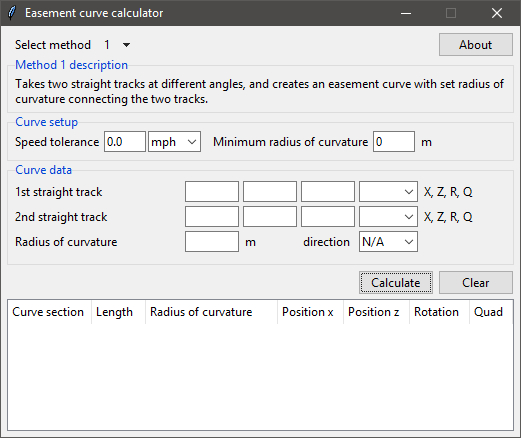
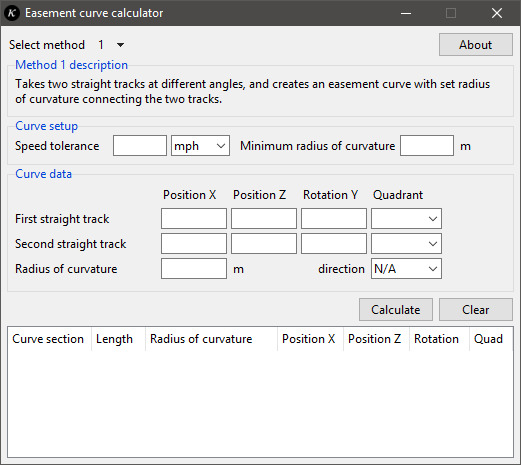
Updated docs

diff --git a/docs/guide.md b/docs/guide.md
@@ -1,31 +1,33 @@
 # Easement curve guide
 
-- Introduction
-- Joining two straight tracks with a specific radius of curvature
-- Extending a track to join another straight track
-- Other ways of implementing the curve data
+- [Introduction][1]
+- [Joining two straight tracks][2]
+- [Extending a track to join another][3]
+- [Other ways of using the curve data][4]
 
 ## Introduction
+[1]: #introduction
 
 Starting up the GUI gives you this:
 
 ![GUI](images/gui.jpg)
 
 - There are two methods of calculating easement curves - you can select them with the `Select method` menu. Below is a short description of what each method does.
-- Then there is the speed tolerance and minimum radius. The speed tolerance,which can either be in mph or km/h, determines how long the easement curves are. The minimum radius of curvature sets an upper limit on the curvature.
+- Then there is the speed tolerance and minimum radius. The speed tolerance, which can either be in mph or km/h, determines how long the easement curves are. The minimum radius of curvature sets an upper limit on the curvature.
 - The Curve data section is where you enter the data needed to recreate the tracks and curves.
 - The `Clear` button clears away all the fields in the 'Curve data' section. The `Calculate` button does what it says on the tin.
 - At the bottom is the table which gives you the curve coordinates you need to recreate the curve in Train Simulator.
 
-Let's get started with some examples of joining up tracks with easement curves.
+Let us get started with some examples of joining up tracks with easement curves.
 
-## Joining two straight tracks with a specific radius of curvature
+## Joining two straight tracks
+[2]: #joining-two-straight-tracks
 
-Suppose we have two straight tracks, and we want to create a section with easement curves of radius of curvature 3,200 m to join them. The track rule we're using has a speed tolerance of 120 mph and minimum radius of curvature 1,000 m.
+Suppose we have two straight tracks, and we want to create a section with easement curves of radius of curvature 3,200 m to join them. The track rule we are using has a speed tolerance of 120 mph and minimum radius of curvature 1,000 m.
 
 ![Two straight tracks](images/ig01.jpg)
 
-1. As we need a specific radius of curvature, we select method 1. We double click on the first track - it doesn't matter where exactly, as it is the straight line which is used for the calculations. The coordinates rolls out.
+1. As we need a specific radius of curvature, we select method 1. We double click on the first track - it doesn not matter where exactly, as it is the straight line which is used for the calculations. The coordinates rolls out.
 
    ![Clicking on track](images/ig02_1.jpg)
 
@@ -35,33 +37,33 @@ Suppose we have two straight tracks, and we want to create a section with easeme
 
    ![First set of coordinates](images/gui01.jpg)
 
-   > :information_source: In TS2016 the *x* and *z* axes are the horizontal, while the *y* axis is the vertical axis. This is in contrast to the standard Cartesian coordinates where *x* and *y* are the horizontal axes.
+   > :information_source: In TS2016 the *x* and *z* axes are the horizontal axes, while the *y* axis is the vertical axis. This is in contrast to the standard Cartesian coordinates where *x* and *y* are the horizontal axes.
 
-3. We also need the quadrant. Move the camera down to the track and look down the track in the direction you want to build the curve in. The compass says it's about 75 degrees between N and E, therefore the quadrant is `NE`. We enter that in.
+3. We also need the quadrant. Move the camera down to the track and look down the track in the direction you want to build the curve in. The compass says it is about 75 degrees between N and E, therefore the quadrant is `NE`. We enter that in.
 
    ![Looking down track](images/ig03.jpg)
 
    > :information_source: The *y*-axis rotation value is in the [-90, 90] range only, which is half that needed for the full 360 degrees range. Including the quadrant solves this problem. See the [reference](reference.md) for more on this.
 
-   > :warning: Take care with tracks aligned towards W (*y*-axis rotation -90) or E (*y*-axis rotation 90), as the rotation values are very similar on either side of the axis.
+   > :warning: Take care with tracks aligned towards W (*y*-axis rotation -90) or E (*y*-axis rotation 90), as the rotation values can be the same on either side of the axis.
 
-4. We do the same thing for the second track - again, it doesn't matter where exactly on the track. The coordinates are `(681.732, 700.001)` and the rotation is `69.511 NE`.
+4. We do the same thing for the second track - again, it does not matter where exactly on the track. The coordinates are `(681.732, 700.001)` and the rotation is `69.511 NE`.
 
    ![Second track](images/ig04.jpg)
 
    ![Second set of coordinates](images/gui02.jpg)
 
-5. Finally, we enter the radius of curvature `3200` m. The direction can be left as `N/A`, as we're only interested in the shortest curve. Clicking `Calculate` gives us the results.
+5. Finally, we enter the radius of curvature `3200` m. The direction can be left as `N/A`, as we are only interested in the shortest curve. Clicking `Calculate` gives us the results.
 
    ![Results](images/gui03.jpg)
 
-   > :information_source: Picking CW or ACW will force the curve to be aligned in that direction, even if it's a much longer curve and crosses itself. By leaving it at N/A by default the curve will be aligned in the shortest direction.
+   > :information_source: Picking CW or ACW will force the curve to be aligned in that direction, even if it is a much longer curve and crosses itself. By leaving it at N/A by default the curve will be aligned in the shortest direction.
 
 6. We need to recreate the curve in Train Simulator. The start point is at `(508.235, 644.051)`, so we find that point on the first track by double clicking it until the coordinates rollout gives us the correct values.
 
    ![Coordinate found](images/ig05.jpg)
 
-7. Looking straight down at the gizmo, we use the cut tool exactly where the gizmo's centre is. The extranenous section is deleted.
+7. Looking straight down at the gizmo, we use the cut tool exactly where the gizmo's centre is. The extraneous section is deleted.
 
    ![Cutting track](images/ig06.jpg)
 
@@ -69,7 +71,7 @@ Suppose we have two straight tracks, and we want to create a section with easeme
 
    ![New easement curve](images/ig07.jpg)
 
-9. We create a curve of constant radius of curvature, ie a static curve, and making sure it is longer than needed so we can cut it in the right place.
+9. We create a curve of constant radius of curvature, that is, a static curve, and making sure it is longer than needed so we can cut it in the right place.
 
    ![Extending curve](images/ig08.jpg)
 
@@ -85,7 +87,8 @@ Suppose we have two straight tracks, and we want to create a section with easeme
 
     Assuming the coordinates are correct, it should weld without any problems!
 
-## Extending a track to join another straight track
+## Extending a track to join another
+[3]: #extending-a-straight-track
 
 The second method calculates easement curves starting at a specific point and extended to join a straight track. The starting track can either be straight or curved, as long as it is in the same direction as the ending track. As the radius of curvature shown by Train Simulator for a track is only accurate to 1 decimal place, the tool uses an additional pair of coordinates to acquire a more accurate radius of curvature for the starting track. If the starting track is straight, the additional pair of coordinates can be left blank.
 
@@ -97,15 +100,15 @@ Suppose we want to extend an curved track to join with a straight track with eas
 
    ![Starting point](images/ig22.jpg)
 
-2. For the second set of coordinates, we double click on another point on the curved track that's not too close, and enter the coordinates `(521.558, 802.368)`. The rotation/quad values are not needed here.
+2. For the second set of coordinates, we double click on another point on the curved track that is not too close, and enter the coordinates `(521.558, 802.368)`. The rotation/quad values are not needed here.
 
    ![Second point](images/ig23.jpg)
 
-   > :information_source: It doesn't matter where the second pair of coordinates is, just as long as it's on the same track section with the same radius of curvature. If you're starting on a easement curve you can extend a static curve with the easement tool and pick a pair of coordinates before deleting the curve - it will work either side of the starting point.
+   > :information_source: It does not matter where the second pair of coordinates is, just as long as it is on the same track section with the same radius of curvature. If you are starting on a easement curve you can extend a static curve with the easement tool and pick a pair of coordinates before deleting the curve - it will work either side of the starting point.
 
    ![Coordinates inputted](images/gui11.jpg)
 
-3. Finally, we enter the coordinates of the straight track - it doesn't matter where exactly on the track. The coordinates are `(465.935, 775.315)` and `69.148 SW`.
+3. Finally, we enter the coordinates of the straight track - it does not matter where exactly on the track. The coordinates are `(465.935, 775.315)` and `69.148 SW`.
 
    ![Straight track](images/ig24.jpg)
 
@@ -113,7 +116,7 @@ Suppose we want to extend an curved track to join with a straight track with eas
 
    ![Results](images/gui12.jpg)
 
-5. Since we've already defined a start point, we can start with extending the easement curve to radius of curvature `844.4` m.
+5. Since we have already defined a start point, we can start with extending the easement curve to radius of curvature `844.4` m.
 
    ![Extending easement track](images/ig25.jpg)
 
@@ -122,7 +125,10 @@ Suppose we want to extend an curved track to join with a straight track with eas
    ![Finished](images/ig26.jpg)
 
 ## Other ways of implementing the curve data
+[4]: #other-ways-of-implementing-the-curve-data
 
-The above instructions show one way to recreate the curve in Train Simulator, but it may not always work because Train Simulator will only show radius of curvature and length of tracks with one decimal place - any hidden errors when laying down the track can easily blow up and make the curve unable to join the second track.
+The above instructions show one way to recreate the curve in Train Simulator, but it may not always work because Train Simulator will only show radius of curvature and length for tracks with one decimal place - any hidden errors when laying down the track can easily blow up and make the curve unable to join the second track.
+
+It is for that reason the results are laid out in a table with all the data required rather than a list of instructions.
 
 Another way of laying down the track would be to look at the coordinates for the start and the end of the static curve, and lay down two straight tracks whose ends match up with those coordinates. Then, with Train Simulator's joining tool, the static curve is formed by joining those tracks without easements. The straight tracks are deleted and new easement curves created in place, both of which should join up with the starting and ending tracks without problems.

diff --git a/docs/reference.md b/docs/reference.md
@@ -14,10 +14,10 @@ You can also make grids visible by selecting this option on the left rollout:
 
 ![Grid options](images/ig31.jpg)
 
-When dealing with tracks that are far apart, you will need to bear in mind that the tracks can be positioned relative to different tiles, even if they are not inside those grid tiles. For instance, if you know that one track is inside a tile adjacent to one south where a second track is, and their coordinates don't match up with the distances shown, you would need to add 1,024 to the *z*-axis coordinate for the first track.
+When dealing with tracks that are far apart, you will need to bear in mind that the tracks can be positioned relative to different tiles, even if they are not inside those grid tiles. For instance, if you know that one track is inside a tile adjacent to one south where a second track is, and their coordinates do not match up with the distances shown, you would need to add 1,024 to the *z*-axis coordinate for the first track.
 
 ### Rotation values
-Tracks are aligned according to their rotation values in the vertical *y*-axis. However, there are two issues with *y*-axis rotation values. Firstly, the values shown on the rollout dialog is always within the -90 to 90 range, which is half that required for a full range of 360 degrees. Secondly, the rotation value is relative to the direction the track was laid in, which isn't always the same as the direction you want to lay new track in. As a result, an extra coordinate is needed: the bearing quadrants `NE`, `SE`, `SW` and `NW`.
+Tracks are aligned according to their rotation values in the vertical *y*-axis. However, there are two issues with *y*-axis rotation values. Firstly, the values shown on the rollout dialog is always within the -90 to 90 range, which is half that required for a full range of 360 degrees. Secondly, the rotation value is relative to the direction the track was laid in, which is not always the same as the direction you want to lay new track in. As a result, an extra coordinate is needed: the bearing quadrants `NE`, `SE`, `SW` and `NW`.
 
 | Bearing    | *y*-axis rotation | Quadrant |
 | ---------- | ----------------- | -------- |
@@ -30,9 +30,9 @@ The easiest way to find which quadrant the track is aligned towards is to pin th
 
 ![Compass](images/ig33.jpg)
 
-If the compass shows it's between N and E, or between the bearing values 0 and 90, the quadrant is `NE`. If it's between 90 and 180, it would be `SE`, and so on. With the four quadrants the sign of the *y*-axis rotation does not matter - a value of 90 or -90 will be treated the same.
+If the compass shows it is between N and E, or between the bearing values 0 and 90, the quadrant is `NE`. If it's between 90 and 180, it would be `SE`, and so on. With the four quadrants the sign of the *y*-axis rotation does not matter - a value of 90 or -90 will be treated the same.
 
 ## Speed tolerance
 The speed tolerance is used by TS2016 to determine how long easement curves should be for set radii of curvature. At higher speeds a train will cover more distance in the same length of time, and if the easement curves are too short the transition from straight to curved track with centrifugal force will be too short, leading to jerky movement. By increasing the speed tolerance, the transition curve is stretched out leading to smoother travel over the rails.
 
-You can find out what speed tolerances is used for a predefined track rule by finding the TrackRule `.bin` file (usually in `RailNetwork\TrackRules` for a route/package) and extract the `.xml` file by using `serz.exe` in the RailWorks directory. Each track rule in TS2016 has 4 types: Mainline, Passenger, Freight and Yard; generally in order of highest to lowest speed tolerance. You can change the type of a track after laying it down, but because you can only define the speed tolerance in the track rule before laying down the track you are stuck with 4 possible values for a route. When creating a new route you should create your own track rule and carefully consider the speed tolerance values to ensure they are suitable for the speeds on your route.
+You can find out what speed tolerances is used for a predefined track rule by finding the TrackRule `.bin` file (usually in `RailNetwork\TrackRules` for a route/package) and extract the `.xml` file by using `serz.exe` in the `RailWorks` directory. Each track rule in TS2016 has 4 types: Mainline, Passenger, Freight and Yard; generally in order of highest to lowest speed tolerance. You can change the type of a track after laying it down, but because you can only define the speed tolerance in the track rule before laying down the track you are stuck with 4 possible values for a route. When creating a new route you should create your own track rule and carefully consider the speed tolerance values to ensure they are suitable for the speeds on your route.

diff --git a/README.md b/README.md
@@ -10,24 +10,24 @@ Train Simulator (TS2016) has a route editor and supports creation of easement cu
 
 ## Installation
 
-Everything is packaged in a single .exe file - go to releases [here](releases) and download the latest release. There is no need for installation.
+Everything is packaged in a single `.exe` file - go to releases [here](releases) and download the latest release. There is no need for installation.
 
 ### Run with Python
 
 Alternatively, you can run the source code directly with Python. You need a Python 3.5 distribution, which you can download from the [Python website](https://www.python.org/downloads/). Earlier Python 3 versions may work, but the program is not compatible with Python 2.7 or earlier versions.
 
-In the folder where you have downloaded the zip file, type in the command prompt
+Go to releases [here](releases) and download the source code in `.zip` format. In the folder where you have downloaded the zip file, type in the command prompt
 ```
 python easement-curve-0.5
 ```
-where `easement-curve-0.5` is the name of the .zip file you have downloaded. If you prefer to work with the command line interface, add the `cli` argument:
+where `easement-curve-0.5` is the name of the .zip file you have downloaded - you do not need to extract it. If you prefer to work with the command line interface, add the `cli` argument:
 ```
 python easement-curve-0.5 cli
 ```
 
 ### Compiling from source
 
-To create the executable for yourself, you need a Python 3.5 distribution as above, and `PyInstaller`, a Python module. Once you have Python 3.5 installed, install PyInstaller by typing in the command prompt
+If you want to create the executable for yourself, you need a Python 3.5 distribution as above, and `PyInstaller`, a Python module. Once you have Python 3.5 installed, install PyInstaller by typing in the command prompt
 ```
 pip install pyinstaller
 ```
